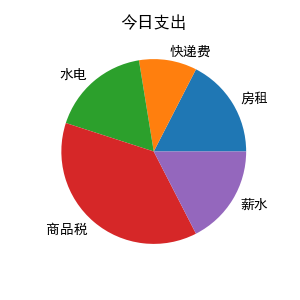
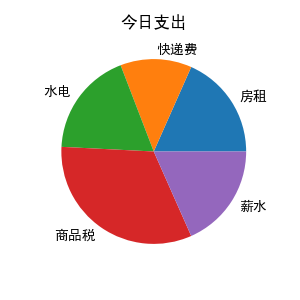
修复购买记录导出bug

diff --git a/client/BMT_client.py b/client/BMT_client.py
@@ -625,12 +625,12 @@ class shop_window(QMainWindow):
         ph_data = ph_data.loc[[QDate.fromString('-'.join(i.split('-')[0:3]),"yyyy-M-d") == current_date for i in ph_data.time],:]
         # 显示销售情况
         days = 0
-        today_sales = round(sum(ph_data["sales_money"]),2)
+        today_sales = round(sum(ph_data["current_selling_price"]),2)
         self.ui.today_sales.setText("今日销售额：{}".format(today_sales))
         # 房租水电薪水各100，书籍邮费2元1本，税率10%
-        today_pay = round((100+100+100)*(days+1)+2*sum(ph_data.sales_number)+0.1*today_sales,2)
+        today_pay = round((100+100+100)*(days+1)+2*len(ph_data)+0.1*today_sales,2)
         self.ui.today_pay.setText("今日支出：{}".format(today_pay))
-        today_profit = round(sum(ph_data["sales_profit"])-today_pay,2)
+        today_profit = round(sum(ph_data["profit"])-today_pay,2)
         if today_profit < 0:
             self.ui.today_profit.setStyleSheet("color:red")
         else:
@@ -701,28 +701,29 @@ class shop_window(QMainWindow):
         self.ph_data[["purchase_price","current_selling_price"]] = self.ph_data[["purchase_price","current_selling_price"]].astype(float)
         self.ph_data["profit"] = self.ph_data["current_selling_price"]-self.ph_data["purchase_price"]
 
-        self.ph_data["sales_number"] = self.ph_data.groupby(["books_name"])["current_selling_price"].transform("count")
-        self.ph_data["sales_money"] = self.ph_data.groupby(["books_name"])["current_selling_price"].transform("sum")
-        self.ph_data["sales_profit"] = self.ph_data.groupby(["books_name"])["profit"].transform("sum")
-        # 保留两位小数
-        self.ph_data["sales_profit"] = self.ph_data["sales_profit"].round(2)
-        # 排序
-        self.ph_data = self.ph_data.sort_values(["sales_number","sales_profit"],ascending=False)
-        # 去重
-        self.ph_data = self.ph_data.drop_duplicates(subset=["books_name"])
         # 显示销售情况
         days = QDate.fromString("2021年12月30日","yyyy年MM月dd日").daysTo(QDate.fromString(QDate.currentDate().toString("yyyy年MM月dd日"),"yyyy年MM月dd日"))
-        total_sales = round(sum(self.ph_data["sales_money"]),2)
+        total_sales = round(sum(self.ph_data["current_selling_price"]),2)
         self.ui.total_sales.setText("累计销售额：{}".format(total_sales))
         # 房租水电薪水各100，书籍邮费2元1本，税率10%
-        total_pay = round((100+100+100)*(days+1)+2*sum(self.ph_data.sales_number)+0.1*total_sales,2)
+        total_pay = round((100+100+100)*(days+1)+2*len(self.ph_data)+0.1*total_sales,2)
         self.ui.total_pay.setText("累计支出：{}".format(total_pay))
-        total_profit = round(sum(self.ph_data["sales_profit"])-total_pay,2)
+        total_profit = round(sum(self.ph_data["profit"])-total_pay,2)
         if total_profit < 0:
             self.ui.total_profit.setStyleSheet("color:red")
         else:
             self.ui.total_profit.setStyleSheet("color:green")
         self.ui.total_profit.setText("累计利润：{}".format(total_profit))
+
+        self.ph_data["sales_number"] = self.ph_data.groupby(["books_name"])["current_selling_price"].transform("count")
+        self.ph_data["sales_money"] = self.ph_data.groupby(["books_name"])["current_selling_price"].transform("sum")
+        self.ph_data["sales_profit"] = self.ph_data.groupby(["books_name"])["profit"].transform("sum")
+        # 保留两位小数
+        self.ph_data[["sales_money","sales_profit"]] = self.ph_data[["sales_money","sales_profit"]].round(2)
+        # 排序
+        self.ph_data = self.ph_data.sort_values(["sales_number","sales_profit"],ascending=False)
+        # 去重
+        self.ph_data = self.ph_data.drop_duplicates(subset=["books_name"])
         for books_info in self.ph_data.itertuples():
             self.add_row(getattr(books_info,"books_type"),getattr(books_info,"books_name"),getattr(books_info,"sales_number"),getattr(books_info,"sales_money"),getattr(books_info,"sales_profit"))
 
@@ -746,37 +747,35 @@ class shop_window(QMainWindow):
             if len(self.ph_data) == 0:
                 QMessageBox.information(self, '提醒', '未找到相关记录，请核对日期后重新查找！', QMessageBox.Yes)
             else:
+                # 显示销售情况
+                self.ph_data[["purchase_price", "current_selling_price"]] = self.ph_data[["purchase_price", "current_selling_price"]].astype(float)
+                self.ph_data["profit"] = self.ph_data["current_selling_price"] - self.ph_data["purchase_price"]
+                days = start_time.daysTo(end_time)
+                total_sales = round(sum(self.ph_data["current_selling_price"]), 2)
+                self.ui.total_sales.setText("累计销售额：{}".format(total_sales))
+                # 房租水电薪水各100，书籍邮费2元1本，税率10%
+                total_pay = round((100 + 100 + 100) * (days + 1) + 2 * len(self.ph_data) + 0.1 * total_sales, 2)
+                self.ui.total_pay.setText("累计支出：{}".format(total_pay))
+                total_profit = round(sum(self.ph_data["profit"]) - total_pay, 2)
+                if total_profit < 0:
+                    self.ui.total_profit.setStyleSheet("color:red")
+                else:
+                    self.ui.total_profit.setStyleSheet("color:green")
+                self.ui.total_profit.setText("累计利润：{}".format(total_profit))
+                # 显示表格
                 self.ui.table.setRowCount(0)
                 self.ui.table.clearContents()
-                self.ph_data[["purchase_price","current_selling_price"]] = self.ph_data[["purchase_price","current_selling_price"]].astype(float)
-                self.ph_data["profit"] = self.ph_data["current_selling_price"]-self.ph_data["purchase_price"]
                 self.ph_data["sales_number"] = self.ph_data.groupby(["books_name"])["current_selling_price"].transform("count")
                 self.ph_data["sales_money"] = self.ph_data.groupby(["books_name"])["current_selling_price"].transform("sum")
                 self.ph_data["sales_profit"] = self.ph_data.groupby(["books_name"])["profit"].transform("sum")
                 # 保留两位小数
-                self.ph_data["sales_profit"] = self.ph_data["sales_profit"].round(2)
+                self.ph_data[["sales_money","sales_profit"]] = self.ph_data[["sales_money","sales_profit"]].round(2)
                 # 排序
                 self.ph_data = self.ph_data.sort_values(["sales_number","sales_profit"],ascending=False)
                 # 去重
                 self.ph_data = self.ph_data.drop_duplicates(subset=["books_name"])
                 for books_info in self.ph_data.itertuples():
                     self.add_row(getattr(books_info,"books_type"),getattr(books_info,"books_name"),getattr(books_info,"sales_number"),getattr(books_info,"sales_money"),getattr(books_info,"sales_profit"))
-            try:
-                # 显示销售情况
-                days = start_time.daysTo(end_time)
-                total_sales = round(sum(self.ph_data["sales_money"]),2)
-                self.ui.total_sales.setText("累计销售额：{}".format(total_sales))
-                # 房租水电薪水各100，书籍邮费2元1本，税率10%
-                total_pay = round((100+100+100)*(days+1)+2*sum(self.ph_data.sales_number)+0.1*total_sales,2)
-                self.ui.total_pay.setText("累计支出：{}".format(total_pay))
-                total_profit = round(sum(self.ph_data["sales_profit"])-total_pay,2)
-                if total_profit < 0:
-                    self.ui.total_profit.setStyleSheet("color:red")
-                else:
-                    self.ui.total_profit.setStyleSheet("color:green")
-                self.ui.total_profit.setText("累计利润：{}".format(total_profit))
-            except KeyError:
-                pass
         except IndexError:
             pass
 
@@ -833,6 +832,7 @@ class purchase_history(QMainWindow):
 
     def output(self):
         file = pd.DataFrame(self.ph_data)
+        file = file.loc[:,[0,1,2,4,5]]
         file.columns = ["顾客姓名","书籍类型","书籍名称","购入价格","交易时间"]
         # 尝试保存，忽略由于用户取消抛出的FileNotFoundError
         try:
